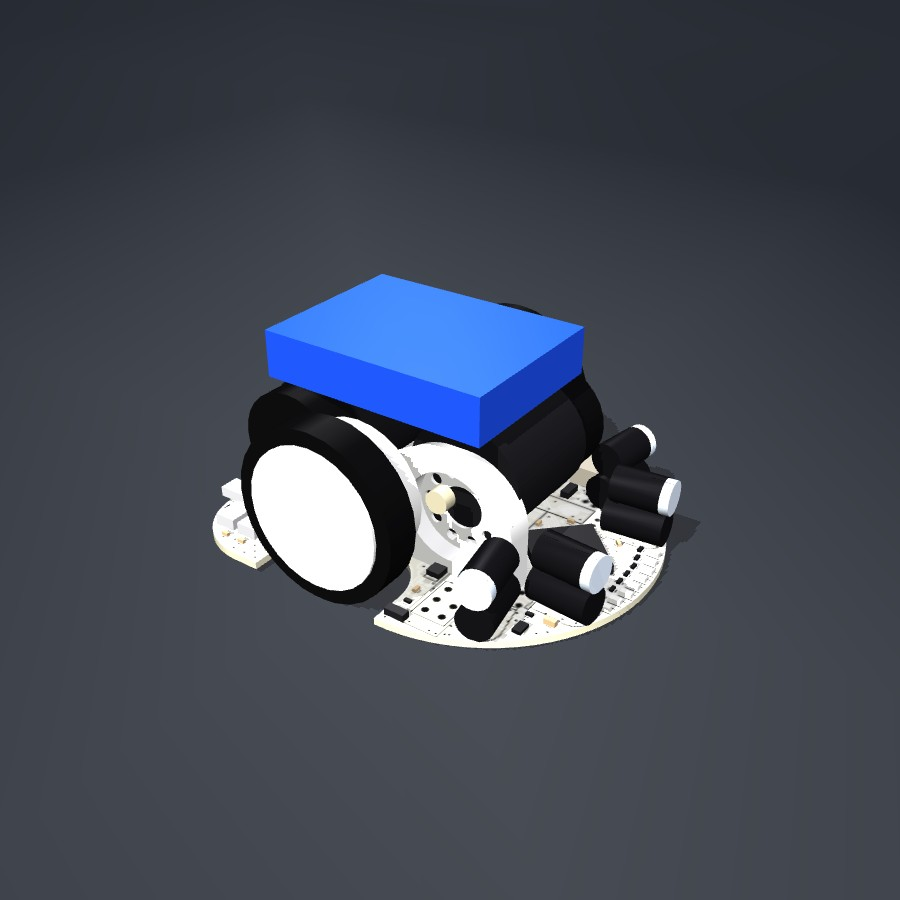
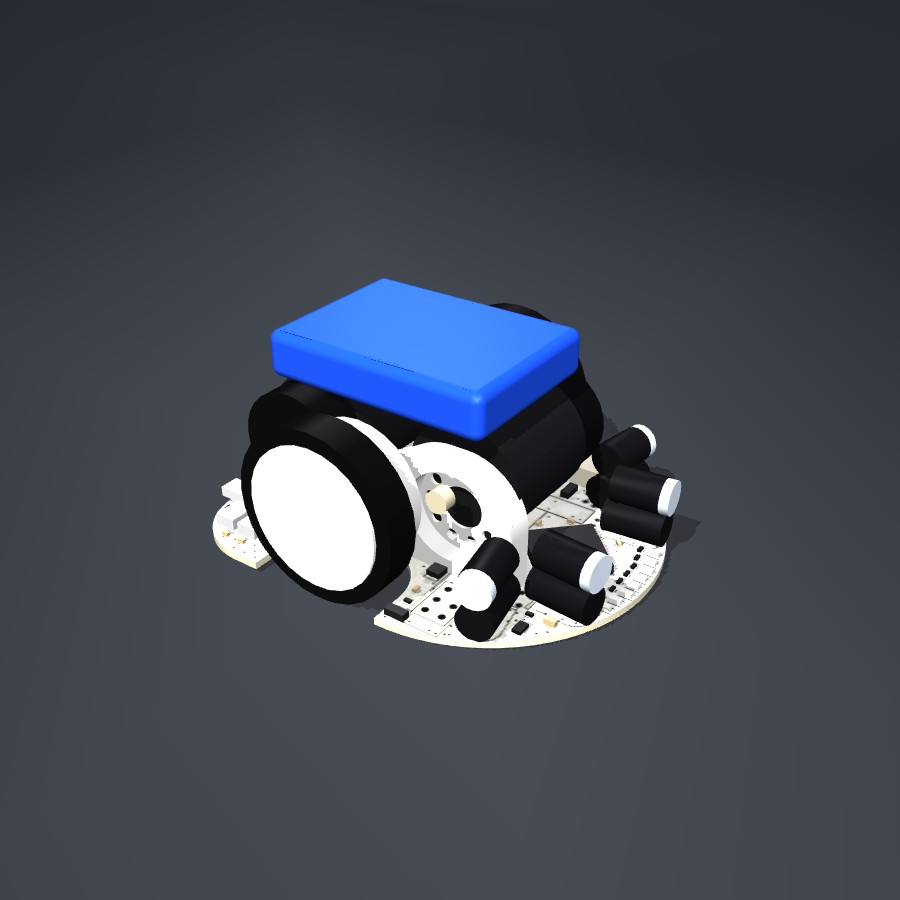
KERISE v2's battery with its edges rounded (1.5 mm: three slabs, twelve cylinders and eight spheres), and its portrait again

diff --git a/ratasim/kerise/model.py b/ratasim/kerise/model.py
@@ -67,6 +67,30 @@ def _box(pos, half, rgba):
     return f'<geom class="evisual" type="box" pos="{_f(*(v * MM for v in pos))}" size="{_f(*(v * MM for v in half))}" rgba="{rgba}"/>'
 
 
+def _rounded_box(pos, half, r, rgba):
+    """A box with its edges rounded (radius r): three slabs, twelve edge cylinders, eight corner spheres."""
+    (x, y, z), (a, b, c) = pos, half
+    g = _box(pos, (a, b - r, c - r), rgba) + _box(pos, (a - r, b, c - r), rgba) + _box(pos, (a - r, b - r, c), rgba)
+    for sx in (-1, 1):
+        for sy in (-1, 1):
+            for sz in (-1, 1):
+                at = (x + sx * (a - r), y + sy * (b - r), z + sz * (c - r))
+                g += f'<geom class="evisual" type="sphere" pos="{_f(*(v * MM for v in at))}" size="{r * MM:.5f}" rgba="{rgba}"/>'
+    for sy in (-1, 1):
+        for sz in (-1, 1):                                                       # along x
+            g += (f'<geom class="evisual" type="cylinder" pos="{_f(x * MM, (y + sy * (b - r)) * MM, (z + sz * (c - r)) * MM)}" '
+                  f'size="{_f(r * MM, (a - r) * MM)}" euler="0 90 0" rgba="{rgba}"/>')
+    for sx in (-1, 1):
+        for sz in (-1, 1):                                                       # along y
+            g += (f'<geom class="evisual" type="cylinder" pos="{_f((x + sx * (a - r)) * MM, y * MM, (z + sz * (c - r)) * MM)}" '
+                  f'size="{_f(r * MM, (b - r) * MM)}" euler="90 0 0" rgba="{rgba}"/>')
+    for sx in (-1, 1):
+        for sy in (-1, 1):                                                       # along z
+            g += (f'<geom class="evisual" type="cylinder" pos="{_f((x + sx * (a - r)) * MM, (y + sy * (b - r)) * MM, z * MM)}" '
+                  f'size="{_f(r * MM, (c - r) * MM)}" rgba="{rgba}"/>')
+    return g
+
+
 def _cyl_x(pos, r, half_len, rgba):
     return (f'<geom class="evisual" type="cylinder" pos="{_f(*(v * MM for v in pos))}" size="{_f(r * MM, half_len * MM)}" '
             f'euler="0 90 0" rgba="{rgba}"/>')
@@ -85,7 +109,7 @@ def robot_xml(start_xy=(0.5, 0.5), prefix='', cell_mm=K.CELL_MM):
         body += _cyl_x((x0 - s * 20.0, y, zm), 8.0, 3.0, BLACK)
         body += _cyl_x((s * 13.5, y, zm), 1.6, 1.0, '0.75 0.72 0.6 1')          # its pinion, by the gear
     # its battery: two cells (LG325-0120) on its motors
-    body += _box((0, 0, zm + 8.5 + 3.4), (12.5, 17.0, 3.4), BATTERY)
+    body += _rounded_box((0, 0, zm + 8.5 + 3.4), (12.5, 17.0, 3.4), 1.5, BATTERY)
     sites = ''.join(f'<site name="ir_{n}" pos="{_f(x * MM, y * MM, K.IR_Z_MM * MM)}" size="0.0012" group="4" '
                     f'rgba="1 0 0 0.6"/>' for n, ((x, y), _d) in K.IR_SENSORS.items())
     wheels = ''
